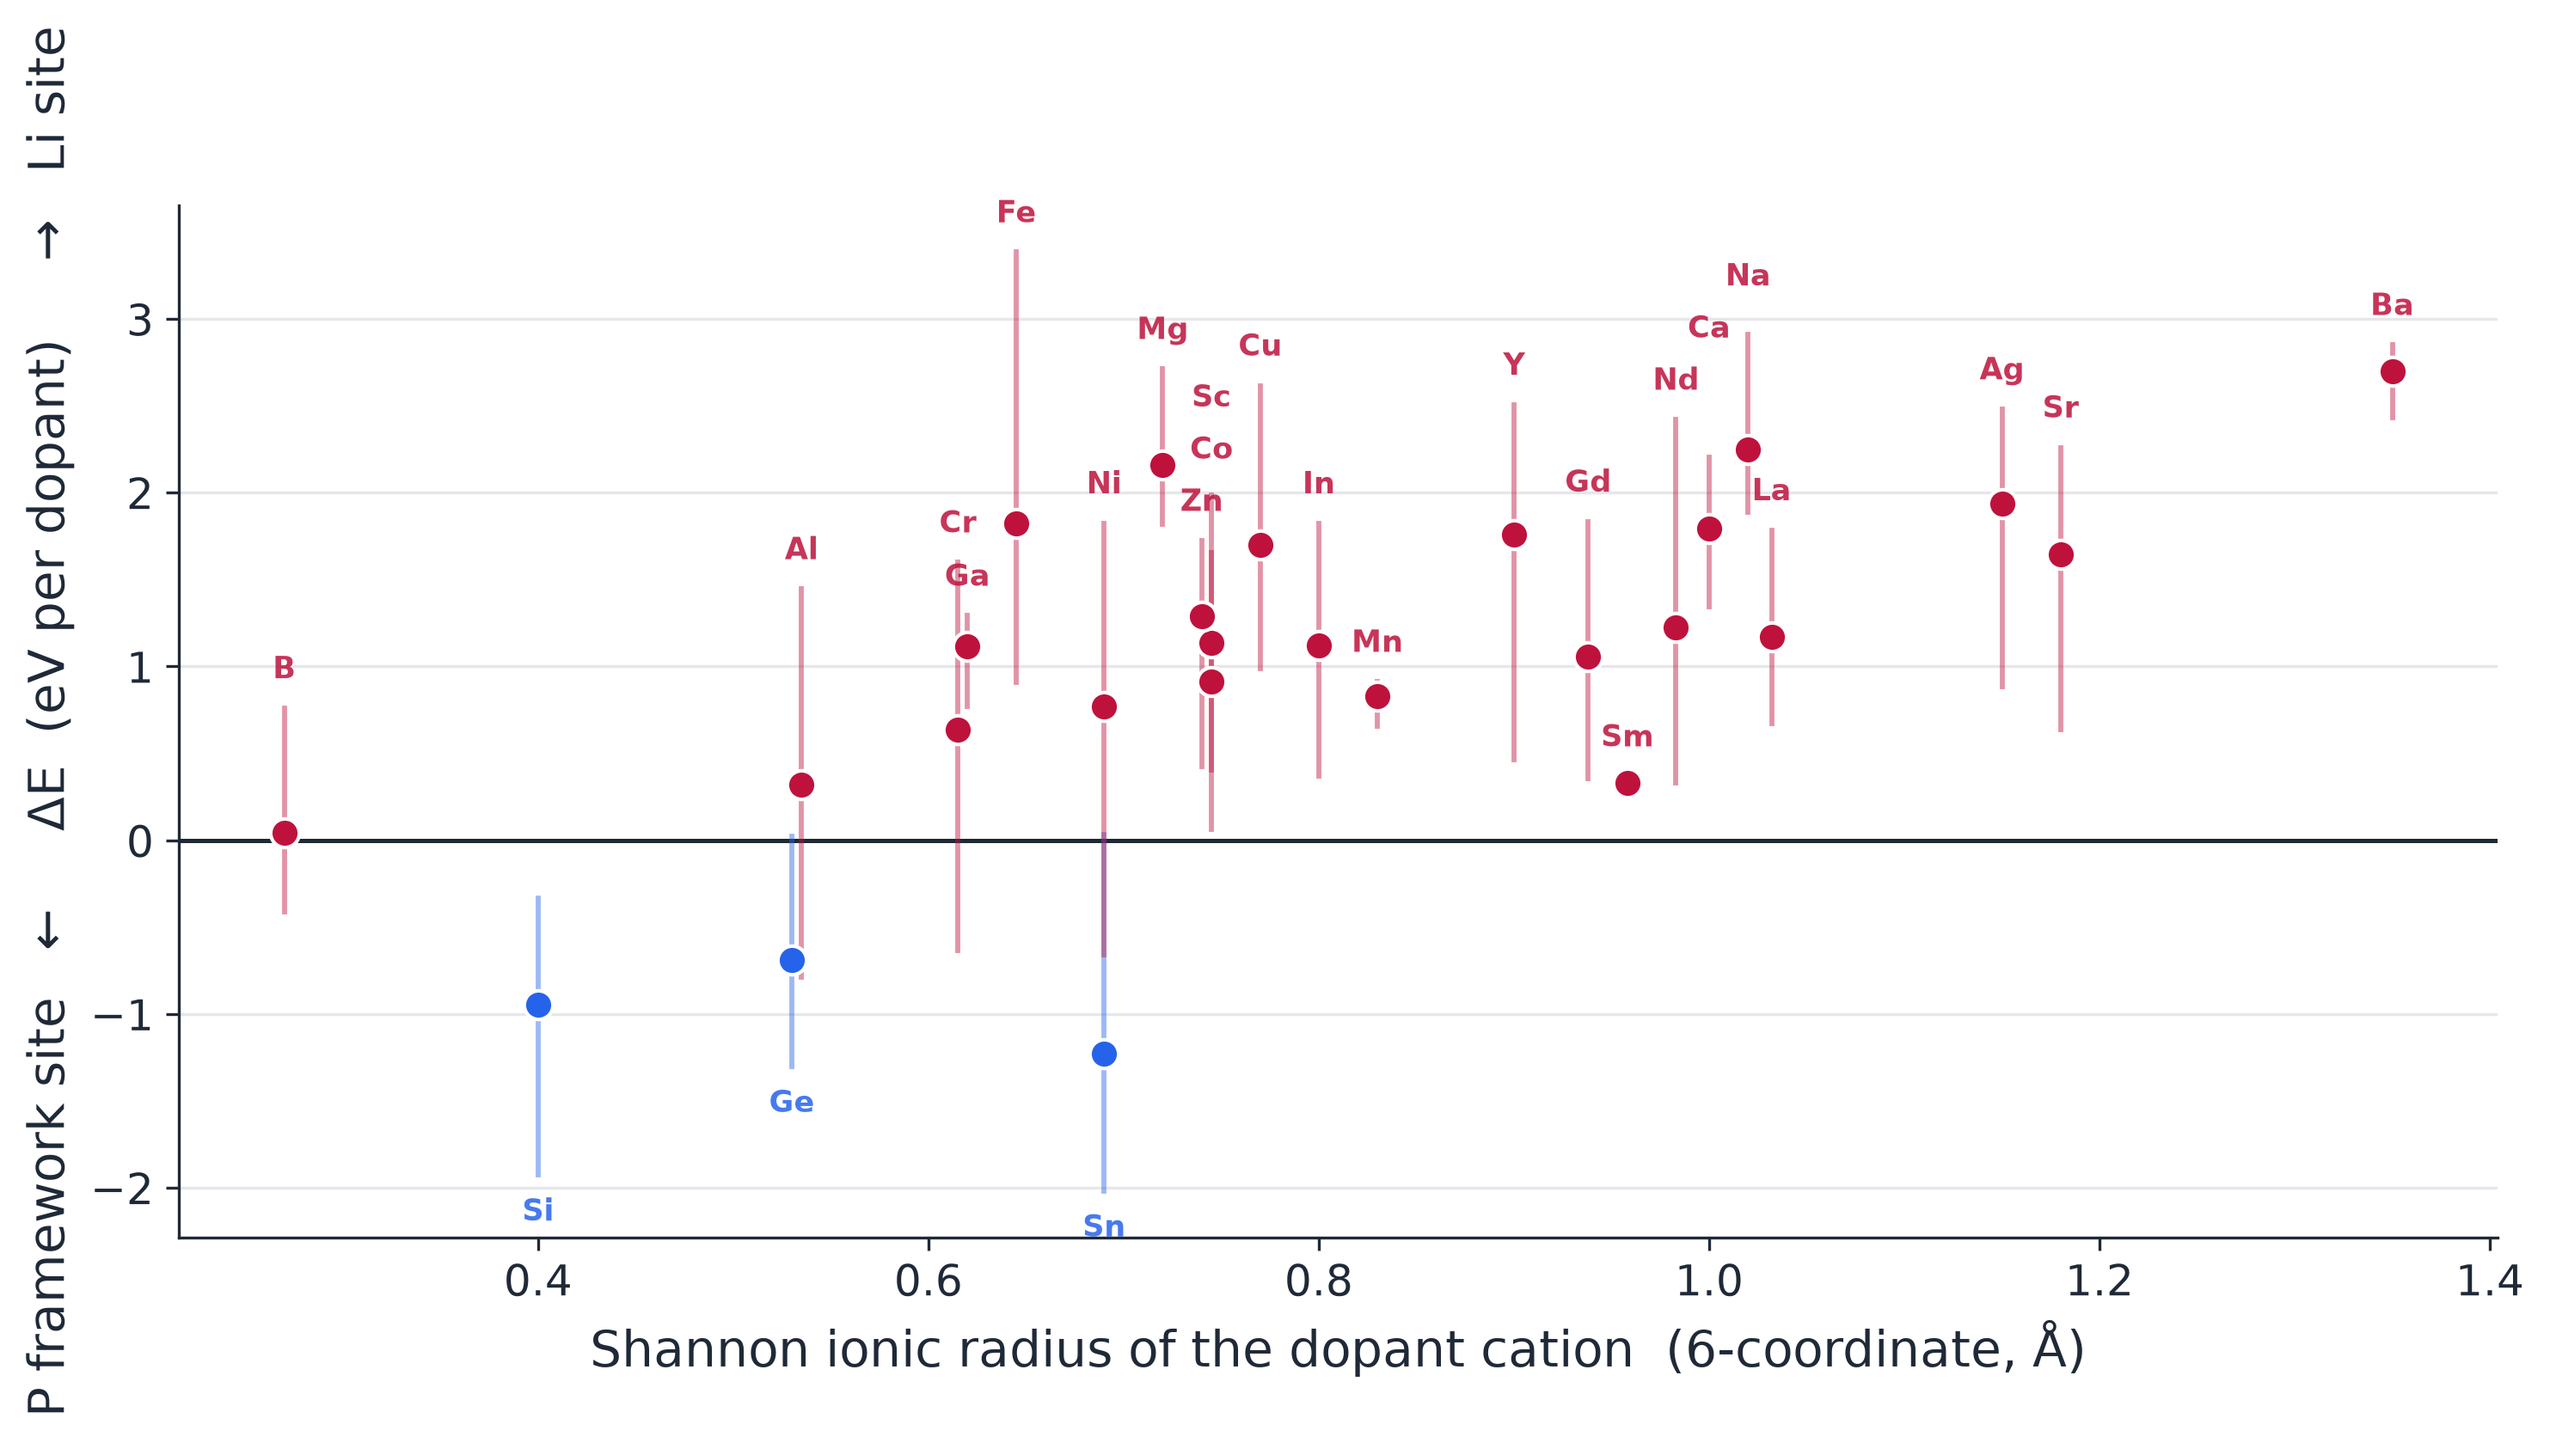
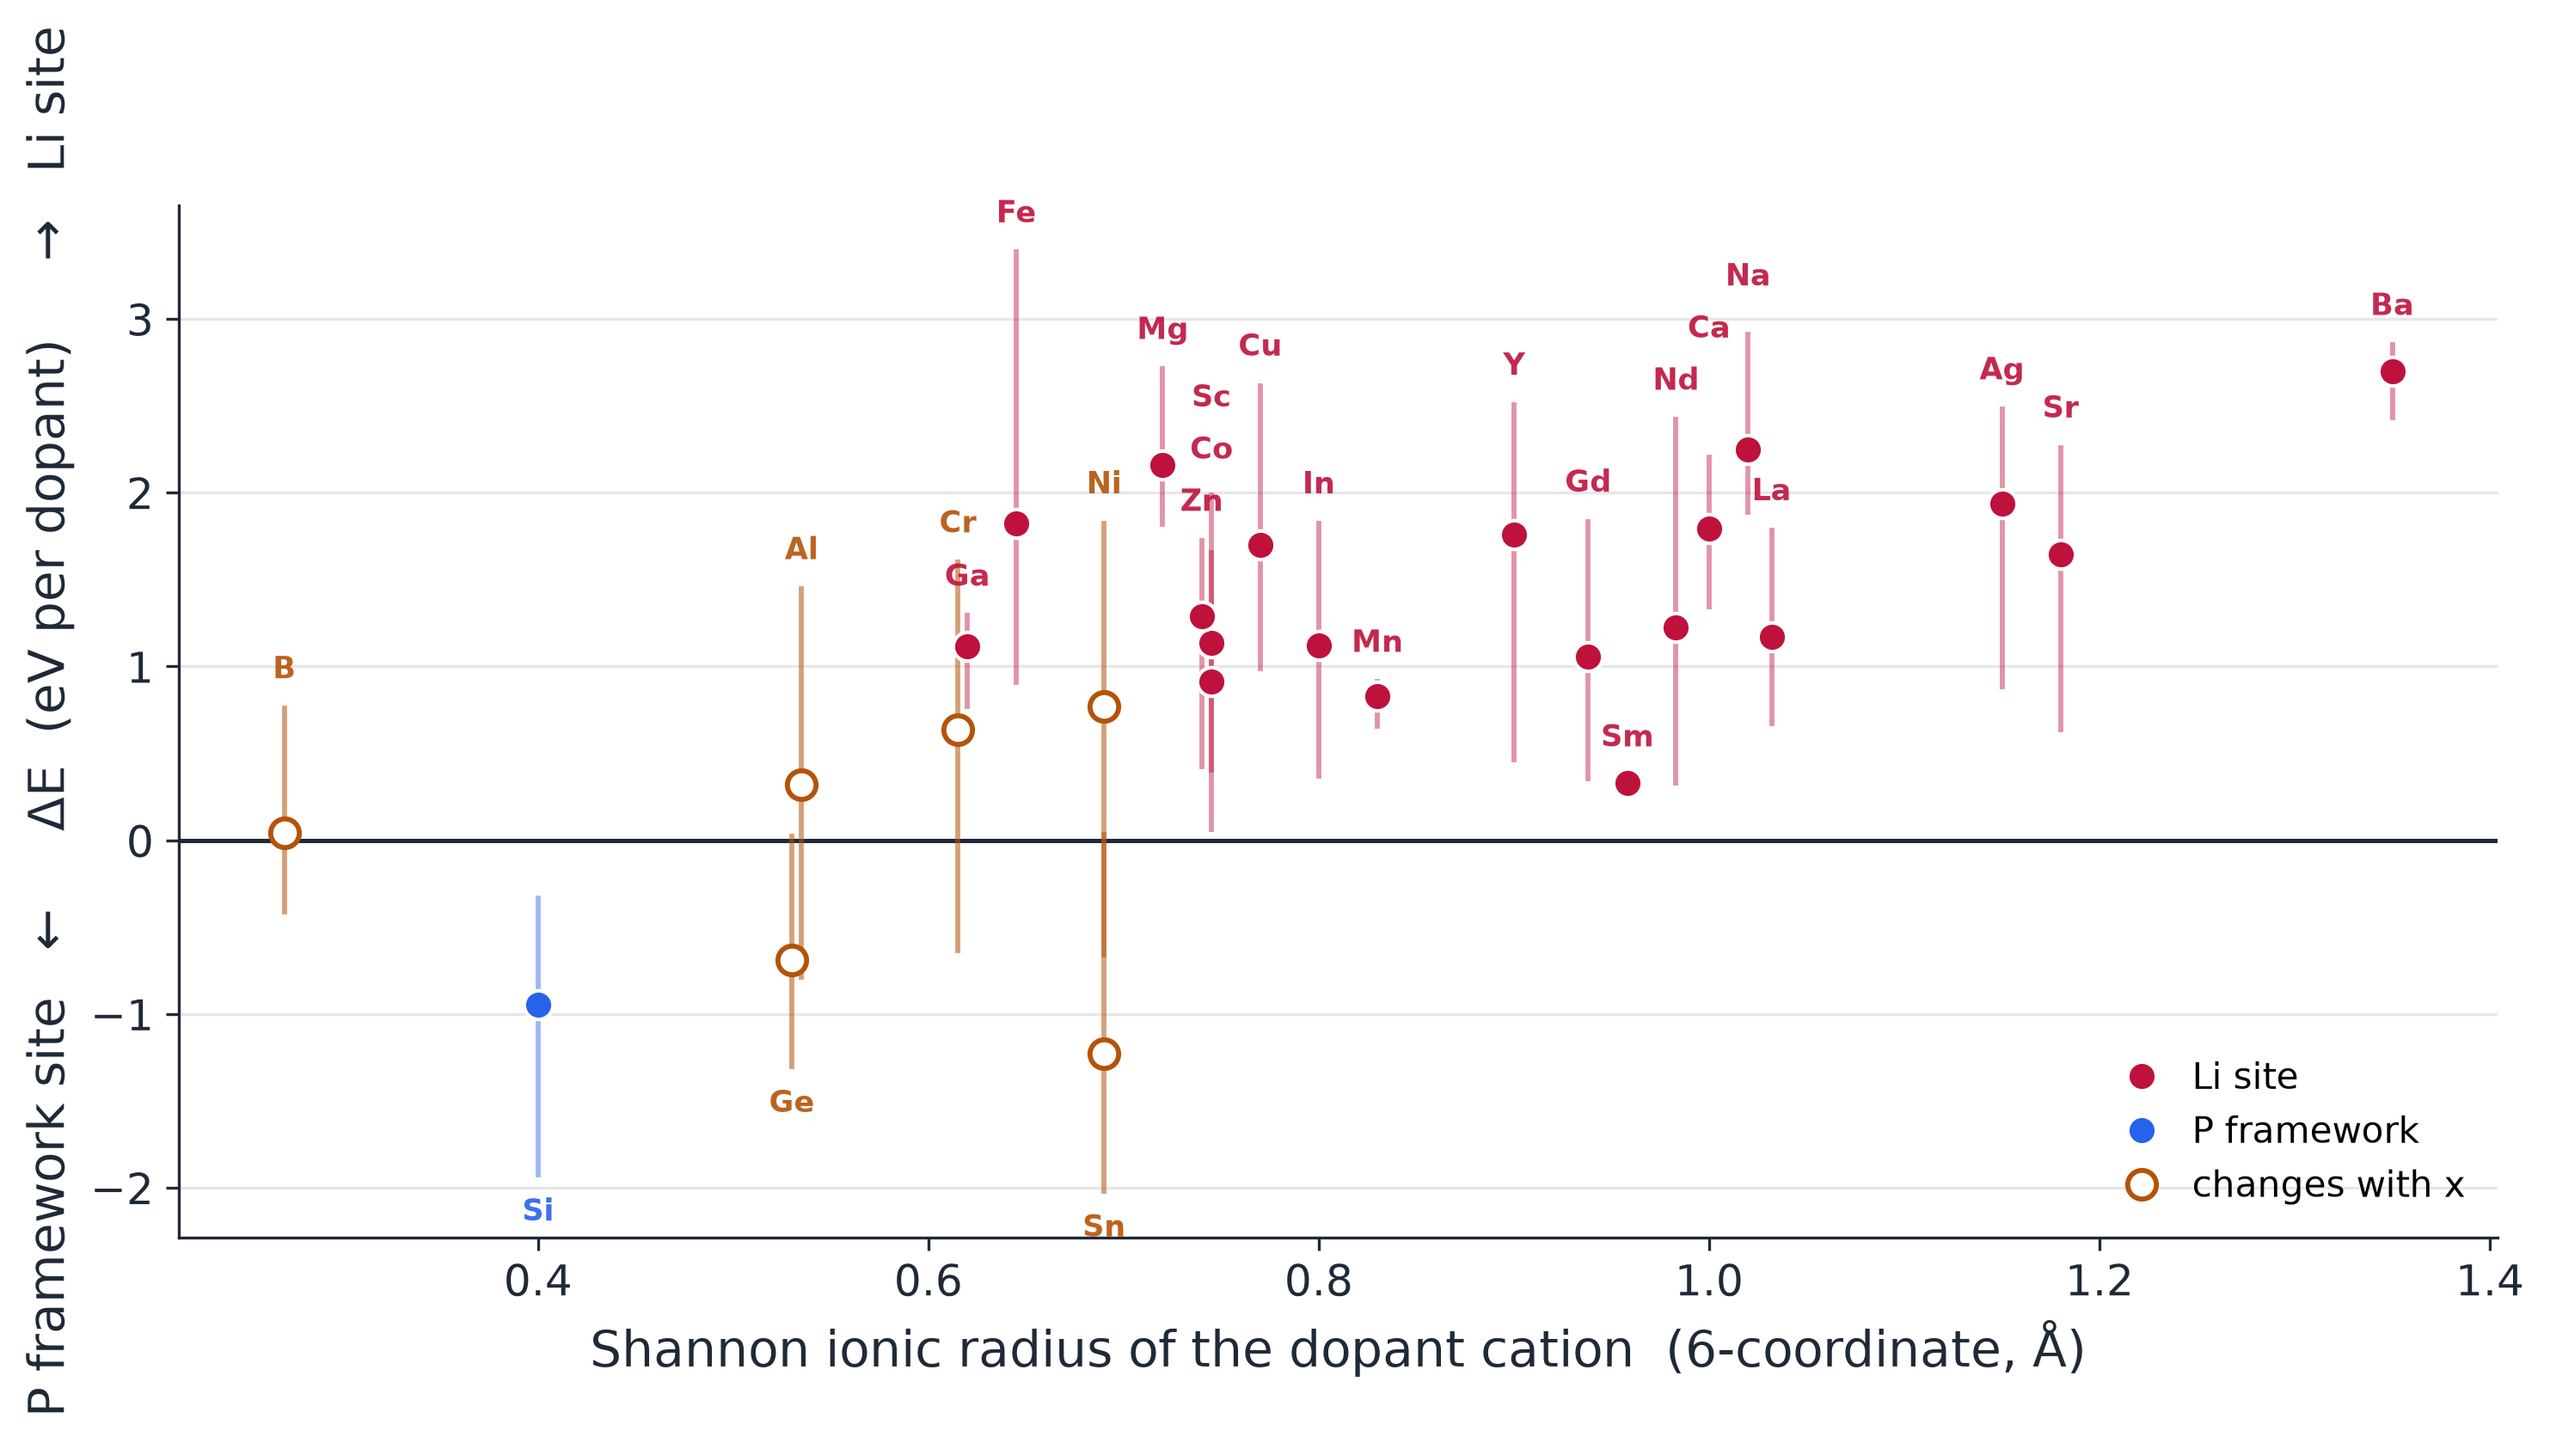
figures/db: 자리 선호 그림 정정 — 막대는 시드가 아니라 도핑 수준이다
1저자 지적 두 건에서 시작:
  1) 'B같은경우에는 P 경우도 Li 경우도 있어'
  2) '도핑농도 관련해서 0.25로 들어갔다고 닫힌거 아니였어? 모순아니야?'

정정 1 — 막대의 정체가 틀렸다.
  세 점은 **시드 재현이 아니라 세 도핑 수준**(라벨 x002/x005/x010)이다.
  덱 캡션이 'spread across our three runs' 라고 했는데 틀렸다.
  그래서 막대가 0 을 걸치는 것은 잡음이 아니라 '농도에 따라 자리가 바뀐다' 는 실측이다.

정정 2 — '작은 4가는 P' 가 너무 셌다. 정산:
  전 농도 Li 19종 · 전 농도 P **Si 하나** · **농도에 따라 바뀜 6종**(B Al Cr Ge Ni Sn)
  그림에서 그 6종을 속 빈 앰버 마커로 분리하고 범례 3줄 추가.

모순 확인 — 아니다. 다른 캠페인이다.
  cascade(점수)는 actual x=0.25, site_preference 는 별도 배치다.
  ⚠ 다만 cascade 에서 x002/x005/x010 라벨이 **전부 actual 0.25** 라 농도시리즈가
    무효였던 전례가 있다(hard_dopant_handling_protocol.md). 같은 병인지 검사했고
    아니었다 — 26종 중 25종이 세 농도에서 dE 가 다르다(폭 중앙값 1.53 eV).
  ⚠ 그래도 라벨을 실제 x 로 읽으면 안 된다: Y2O3_x005 = 47원자에 Y 2개 = P 자리의 33%.
    CSV·docstring 에 그 함정을 못으로 박았다.

db/properties/seminar_table_site_preference.csv 신규 — 원소별 세 농도 dE ·
판정(Li/P/changes with x) · 미수렴 농도(Al x002 · Ag x002 x010) 기록.

Claude-Session: https://claude.ai/code/session_01L44TWYrHkcm4PH5ihWSSCw

diff --git a/tools/figures/plot_seminar_2026_08.py b/tools/figures/plot_seminar_2026_08.py
@@ -177,31 +177,46 @@ def fig_periodic(pool="v2"):
 
 # ── 2. 어느 자리를 고르는가 ────────────────────────────────────────────────────
 def fig_site_choice():
+    """자리 선호 vs 이온 반지름.
+
+    ⚠⚠ 2026-08-18 정정 — 세 점은 **시드가 아니라 도핑 농도**다 (라벨 x002/x005/x010).
+      ⛔ 라벨을 **실제 x 로 읽지 말 것.** 실측된 한 건: `Y2O3_x005` = 47원자 셀에 Y 2개
+        = 4.3 at% = P 자리의 33 % (kb/results/site_preference_findings_2026_06_19.md).
+        다른 캠페인(cascade multi_category_v23)은 같은 라벨을 쓰면서 actual_x 가 셋 다
+        0.25 라 농도시리즈가 **무효**였다(hard_dopant_handling_protocol.md).
+        이 캠페인은 그게 아니다 — 26종 중 25종이 세 농도에서 dE 가 다르다(폭 중앙값 1.53 eV).
+      앞 판 캡션이 "spread across our three runs" 라고 했는데 **틀렸다.** 막대는 재현
+      산포가 아니라 **농도 의존성**이다. 그래서 막대가 0 을 걸치는 것은 잡음이 아니라
+      "농도에 따라 자리가 바뀐다" 는 실측이다 (1저자 지적: "B같은경우에는 P 경우도
+      Li 경우도 있어"). 26종 중 **6종**(Al·B·Cr·Ge·Ni·Sn)이 그렇다.
+    ⚠ 원소 기호와 이 함수의 ax.text 는 **점 라벨**이라 '그림 안 글씨 금지' 예외다.
+    """
     rows = _read(os.path.join(DB, "site_preference_raw_78.csv"))
-    by = {}
+    by, site = {}, {}
     for r in rows:
         try:
             rad, de = float(r["ionic_radius_6coord_A"]), float(r["dE_per_dopant_eV"])
         except (ValueError, KeyError):
             continue
         by.setdefault(r["M"], []).append((rad, de))
+        site.setdefault(r["M"], set()).add(r.get("preferred_site", ""))
     _rc()
     fig, ax = plt.subplots(figsize=(11.6, 5.2))
     ax.axhline(0, color=hs.INK, lw=1.2, zorder=2)
-    # ⚠ 원소 이름표는 **칸 라벨**이라 '그림 안 글씨 금지' 규칙의 예외다 (fig_periodic 과 같다).
-    #   문장은 넣지 않는다. 1저자 요청 2026-08-18: "원소 이름들 같은것도 옆에 안 거슬리게".
+    MIX = "#b45309"          # 농도에 따라 자리가 바뀌는 종 — 앰버, 속 빈 마커
     labels = []
     for m, v in by.items():
         rad = v[0][0]; des = [d for _, d in v]
-        mean = st.mean(des); col = GOOD if mean < 0 else BAD
-        ax.plot([rad, rad], [min(des), max(des)], color=col, lw=1.4, alpha=.45, zorder=3)
-        ax.scatter([rad], [mean], s=64, color=col, zorder=4, edgecolors="white", lw=1.0)
-        # 막대 **바깥**에 붙인다 — 위로 뻗은 것은 위에, 아래로 뻗은 것은 아래에.
-        # 이러면 점·오차막대를 가리지 않고, 부호가 다른 이웃끼리는 저절로 갈라진다
-        # (Sn↓/Ni↑ 는 반지름이 같은 0.690 인데 이 규칙만으로 안 겹친다).
+        mean = st.mean(des)
+        flips = len(site.get(m, set())) > 1
+        col = MIX if flips else (GOOD if mean < 0 else BAD)
+        ax.plot([rad, rad], [min(des), max(des)], color=col, lw=1.4,
+                alpha=.55 if flips else .45, zorder=3)
+        ax.scatter([rad], [mean], s=64, zorder=4, lw=1.4 if flips else 1.0,
+                   facecolors="white" if flips else col,
+                   edgecolors=col if flips else "white")
         up = mean >= 0
         labels.append([rad, (max(des) + 0.13) if up else (min(des) - 0.13), m, col, up])
-    # 같은 반지름·같은 부호로 여전히 겹치는 짝만 손으로 민다 (Co/Sc 0.745)
     labels.sort(key=lambda a: (a[0], a[1]))
     for i in range(1, len(labels)):
         x0, y0, _, _, u0 = labels[i - 1]
@@ -210,8 +225,16 @@ def fig_site_choice():
             labels[i][1] = y0 + (0.30 if u1 else -0.30)
     for x, y, m, col, up in labels:
         ax.text(x, y, m, ha="center", va="bottom" if up else "top",
-                fontsize=8.5, color=col, alpha=.85, zorder=5,
+                fontsize=8.5, color=col, alpha=.9, zorder=5,
                 fontweight="bold", clip_on=False)
+    # 범례 — 마커만. 설명 문장은 슬라이드 캡션이 진다.
+    from matplotlib.lines import Line2D
+    ax.legend(handles=[
+        Line2D([], [], marker="o", ls="", mfc=BAD, mec="white", ms=8, label="Li site"),
+        Line2D([], [], marker="o", ls="", mfc=GOOD, mec="white", ms=8, label="P framework"),
+        Line2D([], [], marker="o", ls="", mfc="white", mec=MIX, mew=1.4, ms=8,
+               label="changes with x"),
+    ], loc="lower right", frameon=False, fontsize=10, handletextpad=.4)
     ax.set_xlabel("Shannon ionic radius of the dopant cation  (6-coordinate, Å)")
     ax.set_ylabel("P framework site   ←     ΔE  (eV per dopant)     →   Li site")
     _bare(ax, grid="y")
